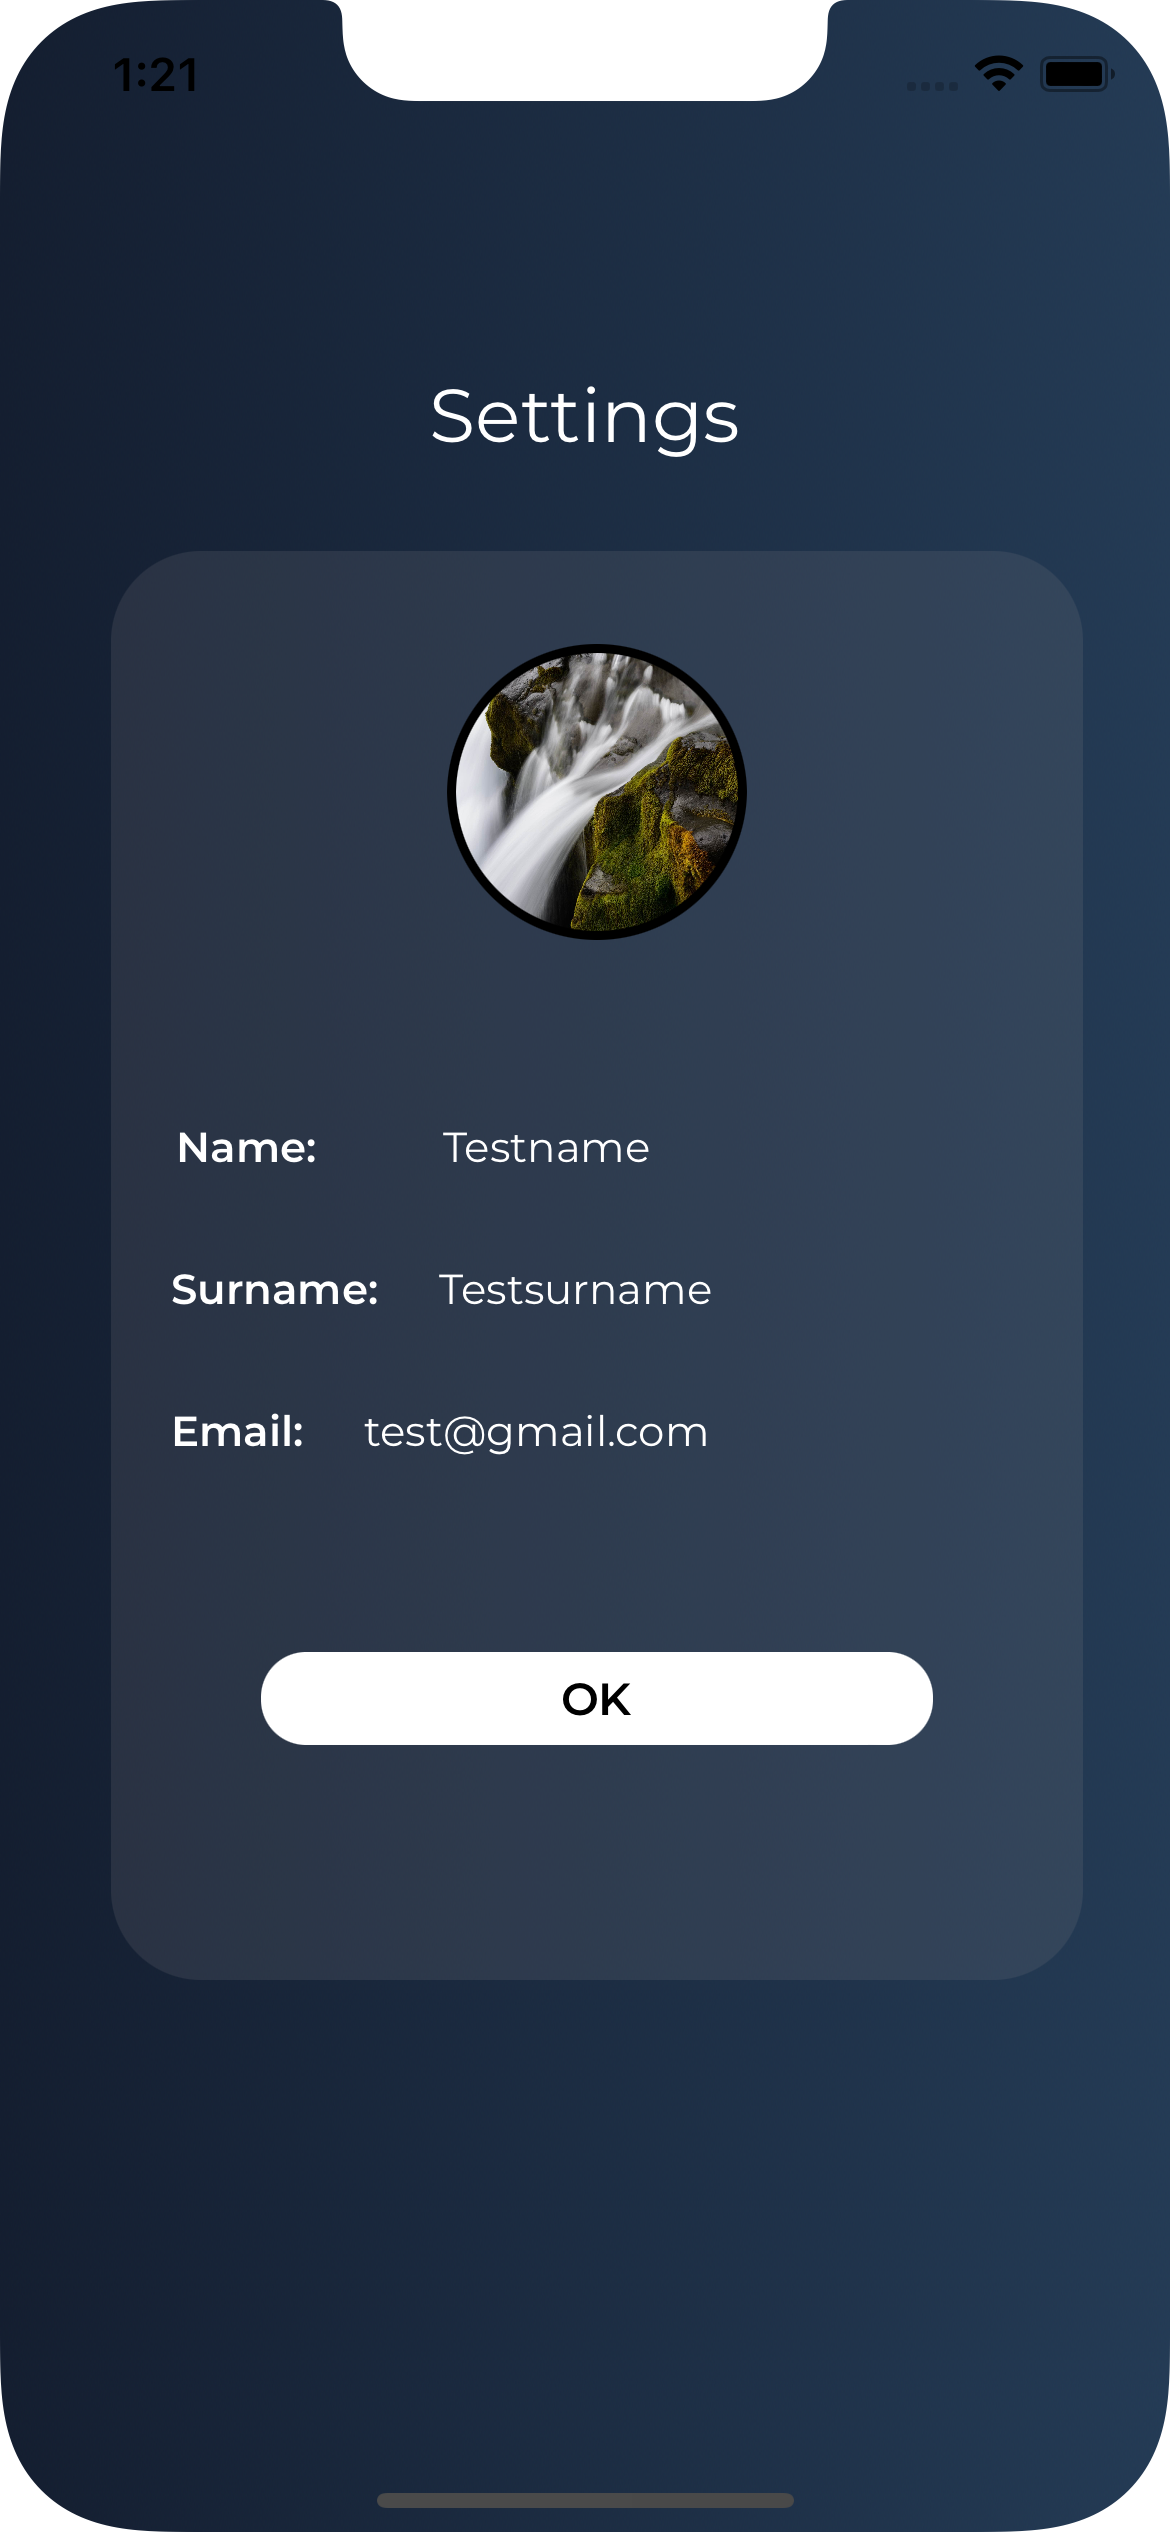
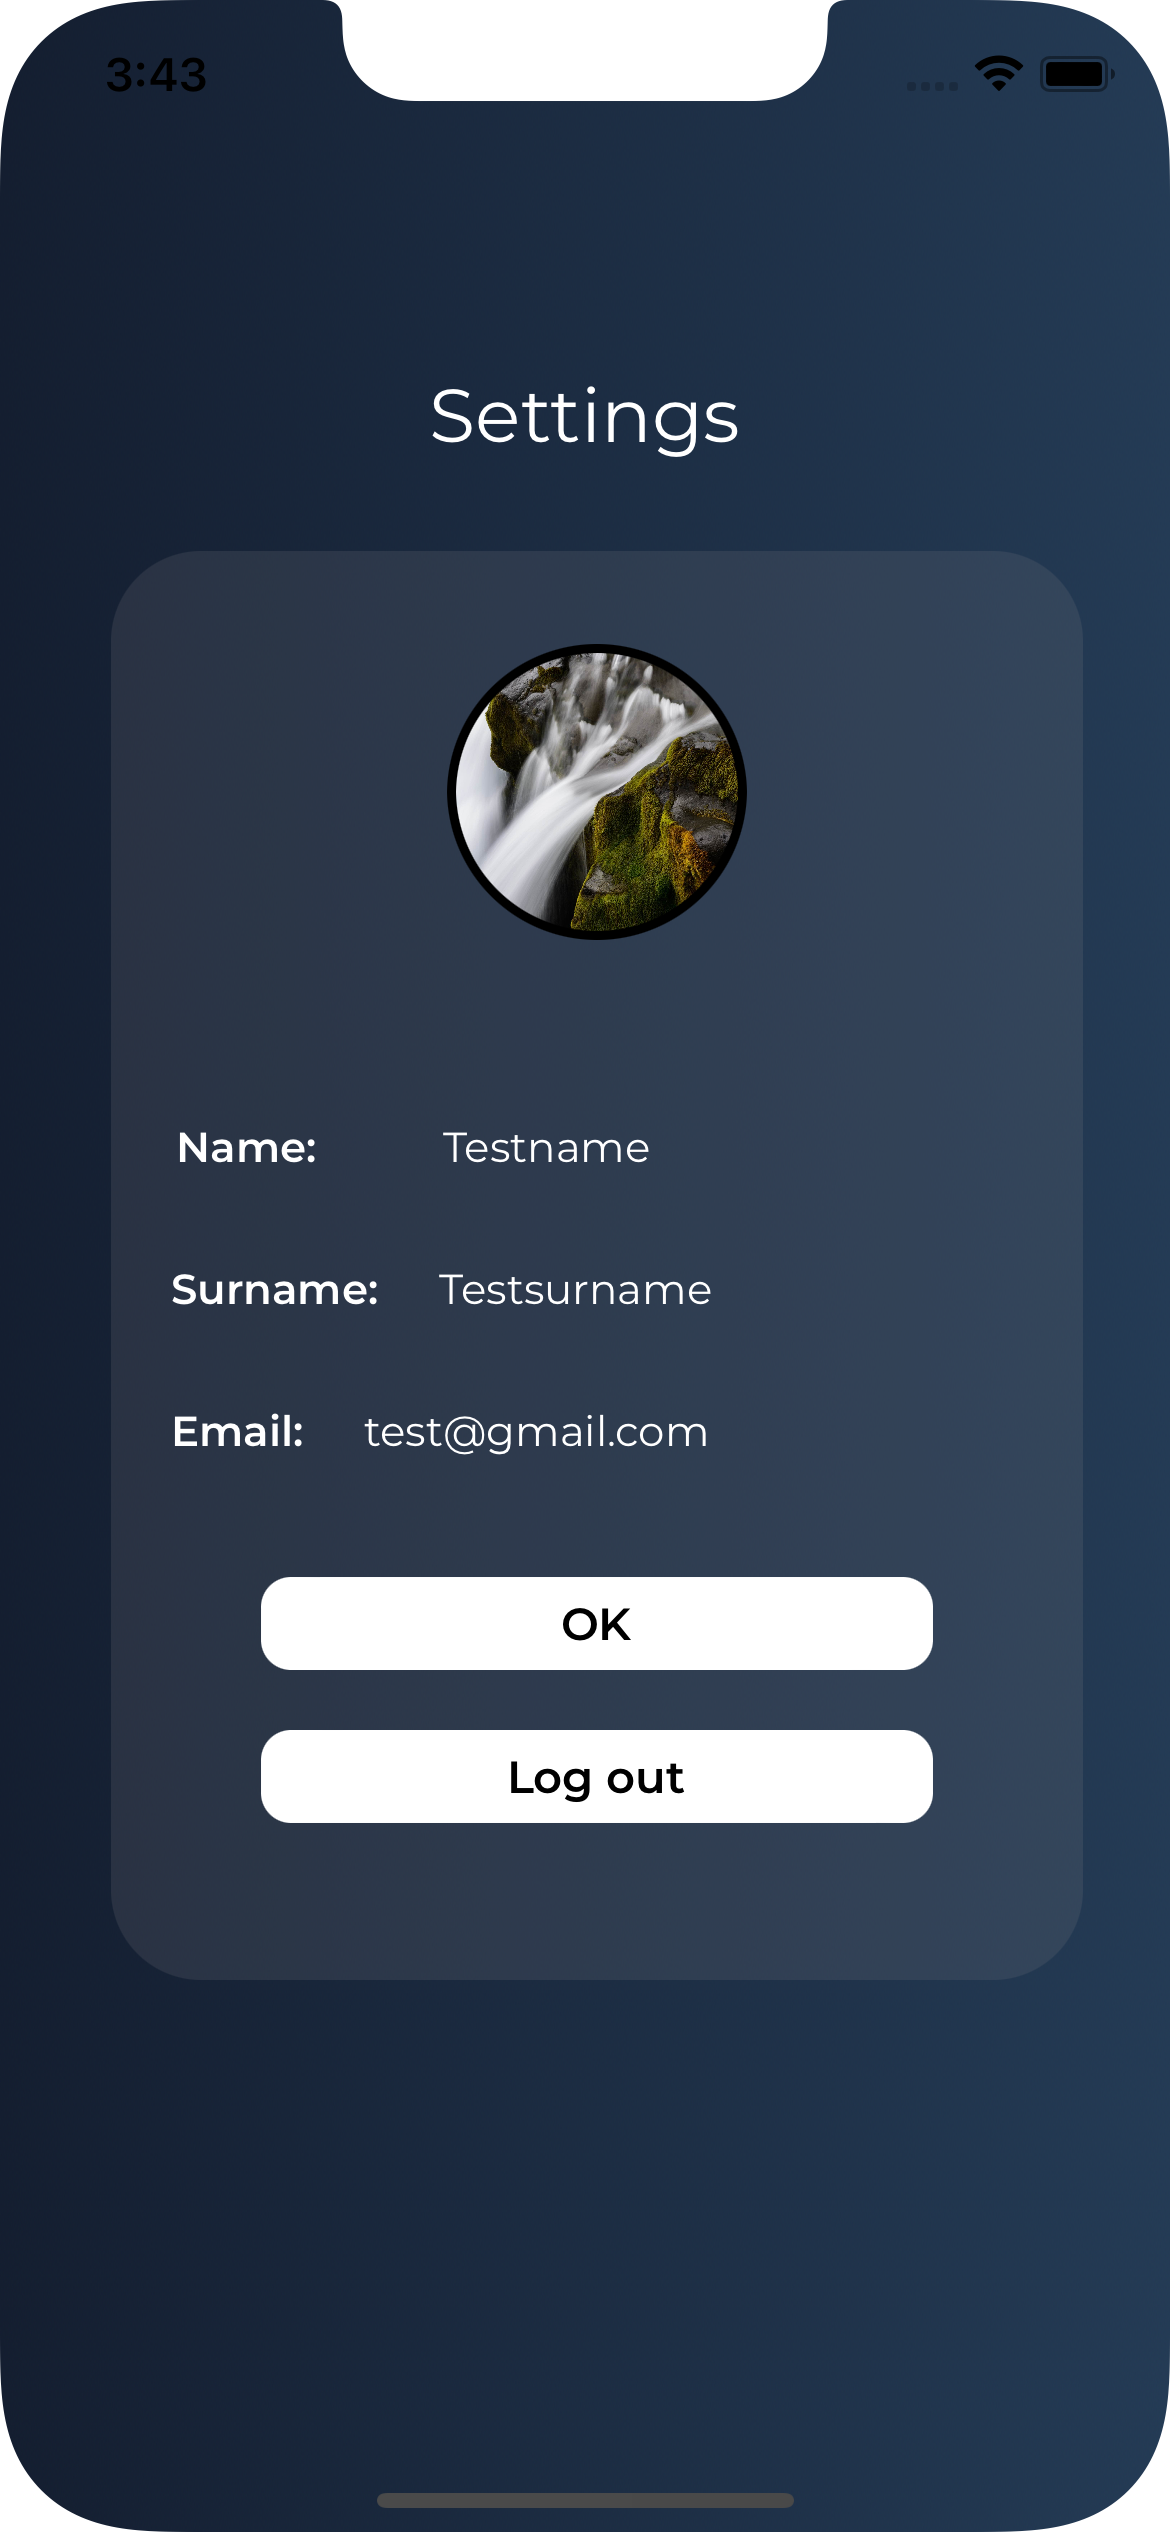
fixing bugs

Changed region(s): [[0.2154, 0.624, 0.8, 0.7176]]

diff --git a/vemo_project_ios/Controllers/SettingsViewController.swift b/vemo_project_ios/Controllers/SettingsViewController.swift
@@ -19,6 +19,7 @@ class SettingsViewController: UIViewController {
     
     
     
+    @IBOutlet weak var logOutBtn: UIButton!
     @IBOutlet weak var nameLabel: UILabel!
     
     @IBOutlet weak var surnameLabel: UILabel!
@@ -40,12 +41,27 @@ class SettingsViewController: UIViewController {
         
         
         self.cardView.layer.cornerRadius = 30
-        self.okBtn.layer.cornerRadius = 15
+        self.okBtn.layer.cornerRadius = 10
+        self.logOutBtn.layer.cornerRadius = 10
         
         
         self.fetchUser()
         
     }
+    
+    
+    
+    @IBAction func logOutBtnTapped(_ sender: Any) {
+        try! Auth.auth().signOut()
+        if let storyboard = self.storyboard {
+            let controller = storyboard.instantiateViewController(identifier: "LoginNC") as! UINavigationController
+            controller.modalPresentationStyle = .fullScreen
+            controller.modalTransitionStyle = .flipHorizontal
+            UserDefaults.standard.hasOnboarded = true
+            present(controller, animated: true, completion: nil)
+        }
+    }
+    
     
     
     

diff --git a/vemo_project_ios/Models/API.swift b/vemo_project_ios/Models/API.swift
@@ -12,16 +12,15 @@ import UIKit
 public class NetworkManager {
     
     
+    // Function for automatically writing your own VIN Code and requesting + receiving data
+    // YOU CAN GET API KEY FROM auto.dev
+    
     let baseURL = "https://auto.dev/api/vin"
     
-    
-    
-    // Function for automatically writing your own VIN Code and requesting + receiving data
-    
     func getRequest(for vinCode: String, completion: @escaping ((Vehicle) -> ())) {
-        if let url = URL (string: (baseURL + "/\(vinCode)" + ("?apikey=ZrQEPSkKYWt6aGFuLmthejIwMDNAZ21haWwuY29t"))) {
+        if let url = URL (string: (baseURL + "/\(vinCode)" + ("?apikey=YOURAPIKEY"))) {
             
-            let authtoken = "ZrQEPSkKYWt6aGFuLmthejIwMDNAZ21haWwuY29t"
+            let authtoken = "YOUR AUTH TOKEN"
             
             var request = URLRequest(url: url)
             request.addValue("application/json", forHTTPHeaderField: "content-type")
